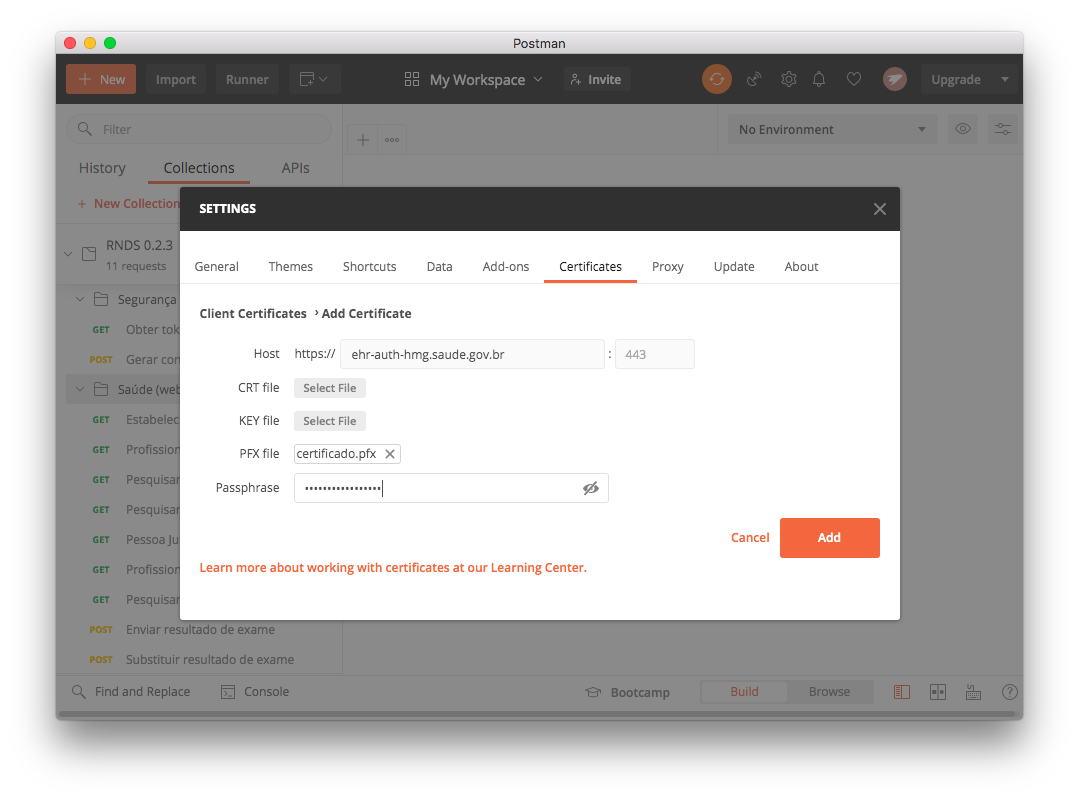
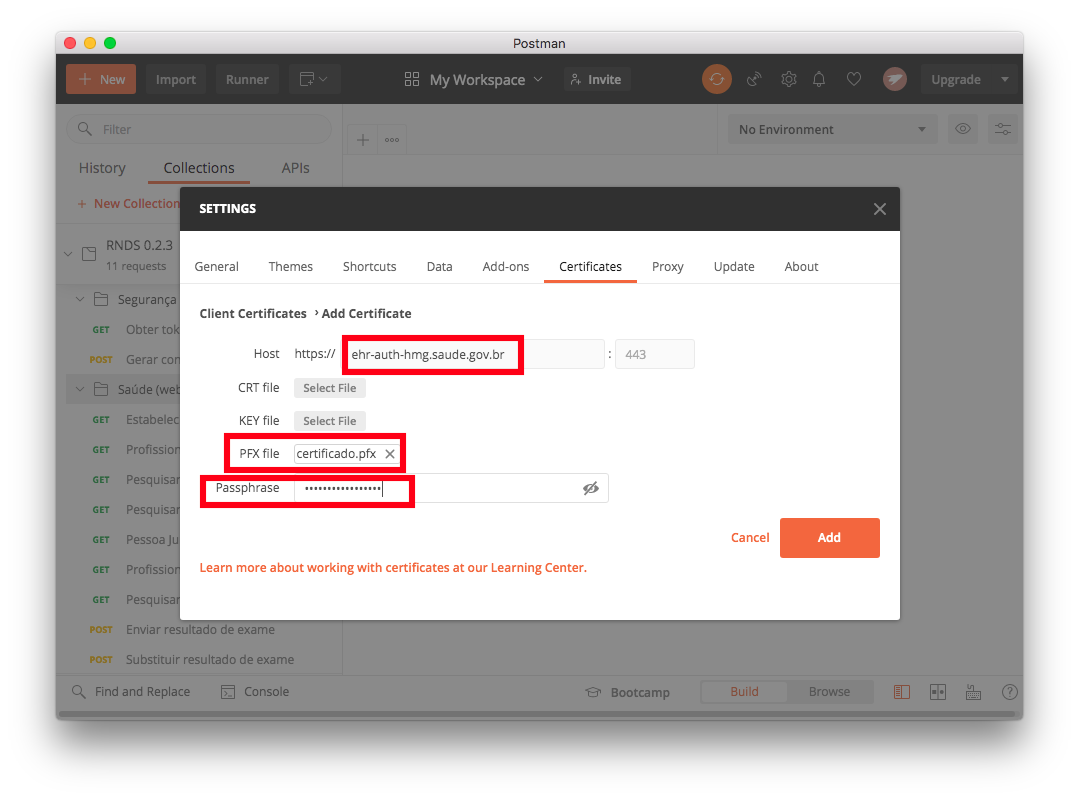
documentação

Changed region(s): [[0.1835, 0.5312, 0.3976, 0.6562], [0.3058, 0.4062, 0.4893, 0.4688]]

diff --git a/guia/docs/ti/conhecer.md b/guia/docs/ti/conhecer.md
@@ -72,10 +72,10 @@ A indicação do certificado digital a ser utilizado pelo Postman é realizada d
 
 ![img](../../static/img/postman-settings.png)
 
-Quando _Add Certificate_ é pressionado, abre-se a tela similar àquela abaixo.
-Observe que nenhum valor estará preenchido, ao contrário da tela exibida abaixo, na qual as três informações exigidas já estão fornecidas: (a) o arquivo **.pfx** contendo o certificado digital do laboratório; (b) o domínio para o qual o certificado será utilizado pelo Postman, ou seja, a porta _Auth_ do [ambiente](./ambientes) de homologação ou, especificamente, o endereço **ehr-auth-hmg.saude.gov.br**; e, por último, (c) a senha empregada para se ter acesso ao conteúdo do certificado.
+Quando _Add Certificate_ é pressionado, abre-se tela similar àquela abaixo.
+Observe que nenhum valor estará preenchido, ao contrário da tela exibida abaixo, na qual as três informações exigidas já estão fornecidas: (a) o domínio para o qual o certificado será utilizado pelo Postman, ou seja, a porta _Auth_ do [ambiente](./ambientes) de homologação ou, especificamente, o endereço **ehr-auth-hmg.saude.gov.br**; (b) o arquivo **.pfx** contendo o certificado digital do estabelecimento de saúde e, por último, (c) a senha empregada para se ter acesso ao conteúdo do certificado.
 
-![img](https://user-images.githubusercontent.com/1735792/92802156-a35d6780-f38c-11ea-8959-35db9c68d49a.png)
+![img](../../static/img/postman-certificado.png)
 
 Ao clicar no botão `Add`, o resultado é fornecido abaixo, indicando que agora o Postman irá empregar, para o _host_ identificado, o certificado informado e, para ter acesso ao conteúdo dele, fará uso da senha ocultada.
 
